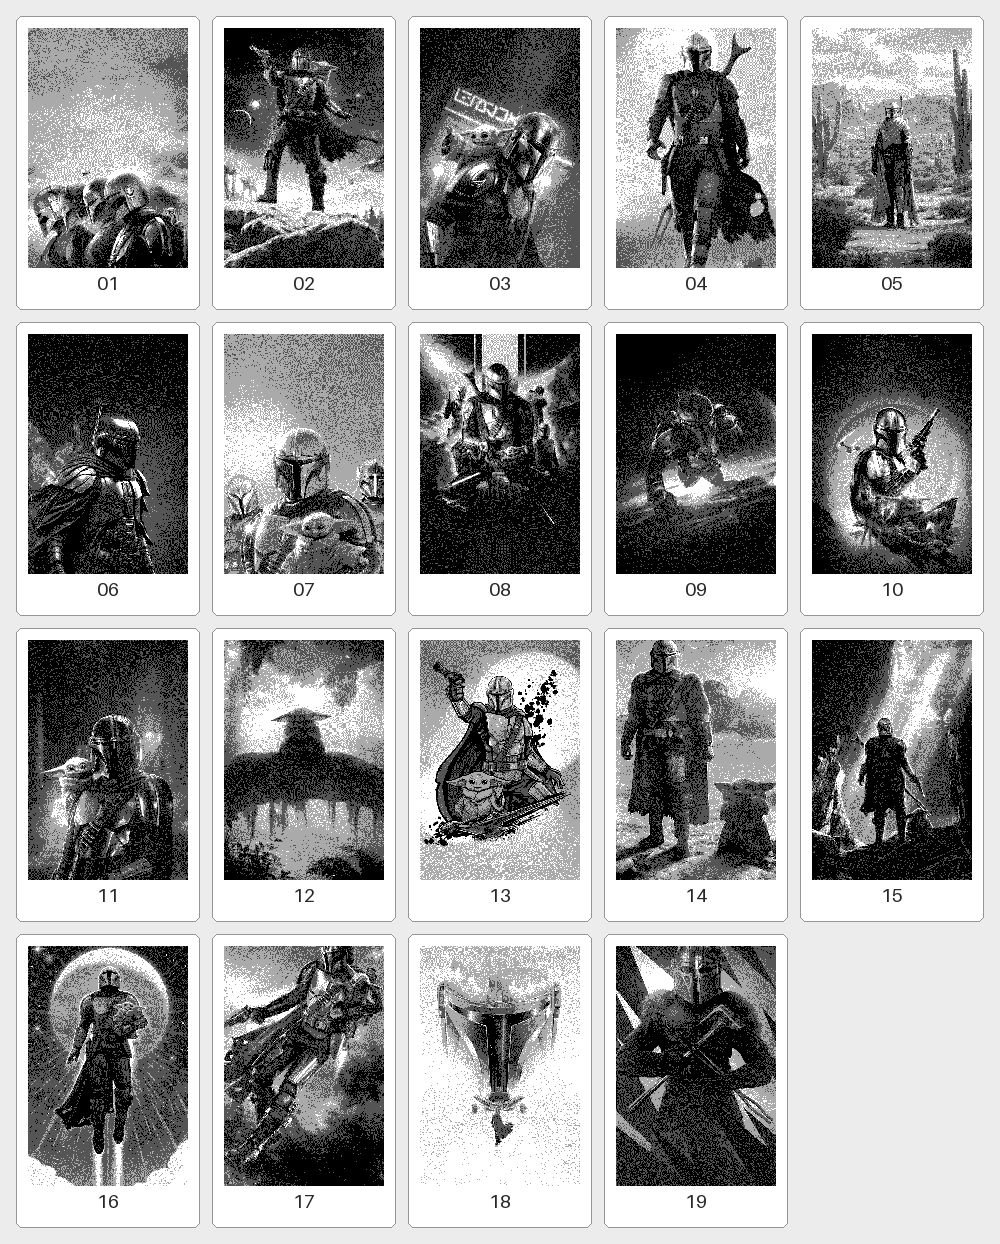
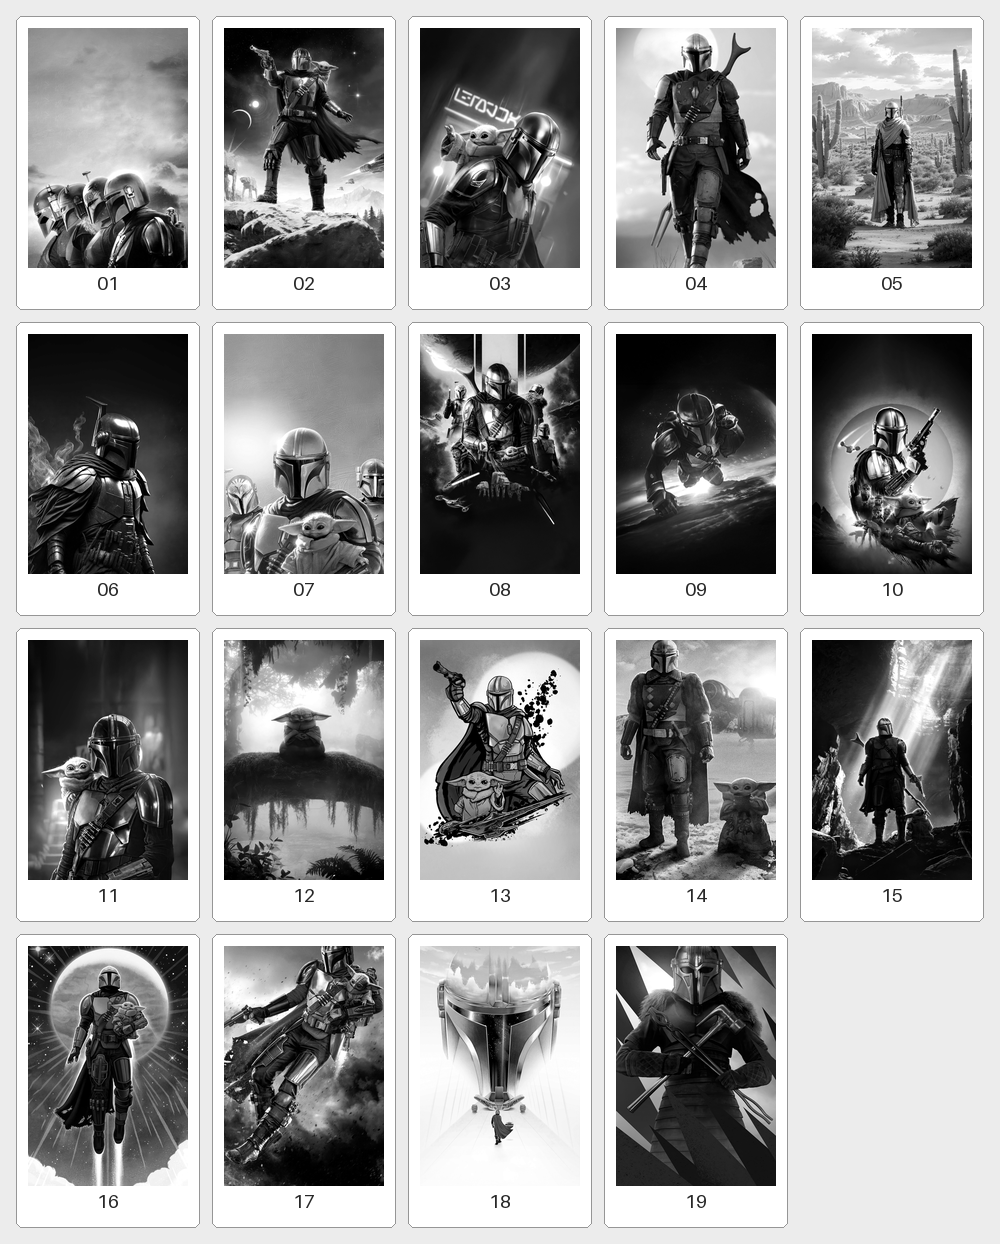
Improve Star Wars gallery quality using grayscale original artwork

diff --git a/tests/test_gallery_preview.py b/tests/test_gallery_preview.py
@@ -1,14 +1,14 @@
-"""Checks for the documentation-only Star Wars contact sheet."""
+"""Checks for the high-quality, source-artwork Star Wars contact sheet."""
 from __future__ import annotations
 
 import io
 import json
-import struct
+import shutil
 import tempfile
 import unittest
 from pathlib import Path
 
-from PIL import Image
+from PIL import Image, ImageDraw, ImageOps, UnidentifiedImageError
 from tools import generate_previews as preview
 
 ROOT = Path(__file__).resolve().parents[1]
@@ -21,13 +21,6 @@ class WallpaperPreviewTests(unittest.TestCase):
         self.assertEqual(len(paths), 19)
         self.assertTrue(all(path.is_file() for path in paths))
 
-    def test_native_2bpp_image_decodes_to_four_gray_levels(self):
-        image = preview.decode_2bpp_bmp(preview.images_from_manifest(PACK)[0])
-        self.assertEqual(image.size, (528, 792))
-        self.assertEqual(image.mode, "L")
-        self.assertTrue(set(image.getdata()).issubset({0, 85, 170, 255}))
-        self.assertGreater(len(set(image.getdata())), 1)
-
     def test_rejects_bad_manifest_image_lists(self):
         source = json.loads((PACK / "manifest.json").read_text(encoding="utf-8"))
         for images in (
@@ -36,40 +29,103 @@ class WallpaperPreviewTests(unittest.TestCase):
             source["images"][:-1] + ["../elsewhere.bmp"],
             source["images"][:-1] + [3],
         ):
-            with self.subTest(images=images[-1]):
+            with self.subTest(last=images[-1]):
                 with tempfile.TemporaryDirectory() as temp:
-                    path = Path(temp)
-                    (path / "manifest.json").write_text(
+                    pack = Path(temp)
+                    (pack / "manifest.json").write_text(
                         json.dumps({**source, "images": images}), encoding="utf-8"
                     )
                     with self.assertRaises(ValueError):
-                        preview.images_from_manifest(path)
+                        preview.images_from_manifest(pack)
 
-    def test_rejects_malformed_or_truncated_bmp(self):
-        data = (preview.images_from_manifest(PACK)[0]).read_bytes()
-        modified = []
-        modified.append(data[:-4])
-        broken_bitdepth = bytearray(data)
-        struct.pack_into("<H", broken_bitdepth, 28, 8)
-        modified.append(bytes(broken_bitdepth))
-        broken_palette = bytearray(data)
-        broken_palette[54] = 1
-        modified.append(bytes(broken_palette))
+    def make_fixture(self, parent: Path) -> tuple[Path, Path]:
+        """Create 19 distinct original JPEGs and one matching duplicate pair."""
+        pack = parent / "pack"
+        pack.mkdir()
+        source = parent / "originals"
+        source.mkdir()
+        names = ["wallpapers/art-00-1.bmp"]
+        names.extend(f"wallpapers/art-{i:02d}.bmp" for i in range(1, 19))
+        (pack / "manifest.json").write_text(
+            json.dumps({"images": names}), encoding="utf-8"
+        )
+        for i in range(19):
+            name = "art-00 (1).jpg" if i == 0 else f"art-{i:02d}.jpg"
+            image = Image.new("RGB", (96, 160))
+            draw = ImageDraw.Draw(image)
+            for x in range(96):
+                draw.line((x, 0, x, 159), fill=((x * 2 + i * 9) % 256,
+                                                  (x * 3 + i * 17) % 256, x))
+            image.save(source / name, quality=95)
+        shutil.copyfile(source / "art-00 (1).jpg", source / "art-00.jpg")
+        return pack, source
+
+    def test_matches_manifest_order_and_ignores_only_identical_duplicates(self):
         with tempfile.TemporaryDirectory() as temp:
-            path = Path(temp) / "test.bmp"
-            for bad_data in modified:
-                path.write_bytes(bad_data)
-                with self.assertRaises(ValueError):
-                    preview.decode_2bpp_bmp(path)
+            pack, source = self.make_fixture(Path(temp))
+            ordered = preview.source_files_for_manifest(pack, source)
+            self.assertEqual(len(ordered), 19)
+            self.assertEqual(ordered[0].name, "art-00 (1).jpg")
+            self.assertEqual(ordered[1].name, "art-01.jpg")
+            with Image.open(io.BytesIO(preview.render_gallery(pack, source))) as image:
+                self.assertEqual(image.format, "PNG")
+                self.assertEqual(image.size, (1000, 1244))
+                self.assertEqual(image.mode, "L")
+            Image.new("RGB", (96, 160), "red").save(source / "extra.jpg")
+            with self.assertRaisesRegex(ValueError, "extra distinct artwork"):
+                preview.source_files_for_manifest(pack, source)
 
-    def test_gallery_is_valid_png_and_current(self):
-        generated = preview.render_gallery(PACK)
-        self.assertEqual((ROOT / preview.PREVIEW).read_bytes(), generated)
-        with Image.open(io.BytesIO(generated)) as image:
+    def test_rejects_missing_duplicate_and_bad_originals(self):
+        with tempfile.TemporaryDirectory() as temp:
+            pack, source = self.make_fixture(Path(temp))
+            with self.assertRaisesRegex(ValueError, "missing"):
+                preview.source_files_for_manifest(pack, Path(temp) / "absent")
+            (source / "art-08.jpg").unlink()
+            with self.assertRaisesRegex(ValueError, "not found"):
+                preview.source_files_for_manifest(pack, source)
+            (source / "art-08.jpg").write_bytes((source / "art-09.jpg").read_bytes())
+            with self.assertRaisesRegex(ValueError, "distinct source artwork"):
+                preview.source_files_for_manifest(pack, source)
+            (source / "art-08.jpg").write_bytes(b"broken image")
+            with self.assertRaises(UnidentifiedImageError):
+                preview.render_gallery(pack, source)
+
+    def test_rejects_ambiguous_filename_normalization(self):
+        with tempfile.TemporaryDirectory() as temp:
+            pack, source = self.make_fixture(Path(temp))
+            shutil.copyfile(source / "art-02.jpg", source / "art 02.jpg")
+            shutil.copyfile(source / "art-02.jpg", source / "art+02.jpg")
+            with self.assertRaisesRegex(ValueError, "ambiguous"):
+                preview.source_files_for_manifest(pack, source)
+
+    def test_thumbnails_use_smooth_grayscale_and_x3_center_crop(self):
+        with tempfile.TemporaryDirectory() as temp:
+            source = Path(temp) / "landscape.jpg"
+            image = Image.new("RGB", (420, 200))
+            draw = ImageDraw.Draw(image)
+            for x in range(420):
+                draw.line((x, 0, x, 199), fill=(x * 255 // 419, 40, 255 - x * 255 // 419))
+            image.save(source, quality=98)
+            result = preview.grayscale_thumbnail(source)
+            self.assertEqual(result.size, (160, 240))
+            self.assertEqual(result.mode, "L")
+            self.assertGreater(len(set(result.tobytes())), 4)
+            # The X3 crop must differ from stretching the full landscape source.
+            with Image.open(source) as original:
+                stretched = ImageOps.autocontrast(
+                    ImageOps.grayscale(original), cutoff=1
+                ).resize(preview.THUMB_SIZE, Image.Resampling.LANCZOS)
+            self.assertNotEqual(result.tobytes(), stretched.tobytes())
+
+    def test_committed_gallery_has_256_level_preview_quality(self):
+        with Image.open(ROOT / preview.PREVIEW) as image:
+            image.verify()
+        with Image.open(ROOT / preview.PREVIEW) as image:
             self.assertEqual(image.format, "PNG")
             self.assertEqual(image.mode, "L")
             self.assertEqual(image.size, (1000, 1244))
-            # The unused 20th grid slot must stay empty.
+            self.assertGreater(len(set(image.crop((28, 28, 188, 268)).tobytes())), 4)
+            # The unused 20th grid slot remains blank.
             self.assertEqual(image.getpixel((824, 970)), 236)
 
 

diff --git a/tools/generate_previews.py b/tools/generate_previews.py
@@ -1,23 +1,27 @@
 #!/usr/bin/env python3
-"""Generate the single README contact sheet from the X3 pack's native 2bpp BMPs."""
+"""Build the README contact sheet from original artwork, not dithered device BMPs."""
 from __future__ import annotations
 
 import argparse
+import hashlib
 import io
 import json
 import re
-import struct
 from pathlib import Path
 
-from PIL import Image, ImageDraw, ImageFont
+from PIL import Image, ImageDraw, ImageFont, ImageOps
 
 PACK = "starwars-x3.crosspoint-wallpaper"
 PREVIEW = Path("docs/previews/starwars-gallery.png")
 IMAGE_NAME = re.compile(r"wallpapers/[a-zA-Z0-9_-][a-zA-Z0-9_.-]*\.bmp\Z")
+SOURCE_EXTENSIONS = {".jpg", ".jpeg", ".png", ".webp"}
 COUNT = 19
+TARGET_SIZE = (528, 792)
+THUMB_SIZE = (160, 240)
 
 
 def images_from_manifest(pack: Path) -> list[Path]:
+    """Return validated wallpaper paths in the exact device manifest order."""
     manifest = json.loads((pack / "manifest.json").read_text(encoding="utf-8"))
     images = manifest.get("images")
     if not isinstance(images, list) or len(images) != COUNT:
@@ -29,46 +33,61 @@ def images_from_manifest(pack: Path) -> list[Path]:
     return [pack / name for name in images]
 
 
-def decode_2bpp_bmp(path: Path) -> Image.Image:
-    """Decode the uncompressed, padded, bottom-up 2-bit BMP written by our converter.
+def source_filename_stem(path: Path) -> str:
+    """Match the naming convention used by convert_wallpaper_batch.py."""
+    return re.sub(r"[^a-z0-9_-]+", "-", path.stem.lower()).strip("-")
 
-    Pillow does not natively support the custom 2bpp BMP format.
-    """
-    data = path.read_bytes()
-    if len(data) < 70 or data[:2] != b"BM":
-        raise ValueError(f"invalid BMP header: {path}")
-    file_size = struct.unpack_from("<I", data, 2)[0]
-    offset = struct.unpack_from("<I", data, 10)[0]
-    dib_size, width, signed_height, planes, bpp, compression = struct.unpack_from(
-        "<IiiHHI", data, 14
+
+def source_files_for_manifest(pack: Path, source: Path) -> list[Path]:
+    """Match original images to manifest entries; allow only byte-identical extras."""
+    if not source.is_dir():
+        raise ValueError(f"original artwork folder is missing: {source}")
+    originals = sorted(
+        (path for path in source.iterdir()
+         if path.is_file() and not path.is_symlink()
+         and path.suffix.lower() in SOURCE_EXTENSIONS),
+        key=lambda path: path.name.lower(),
     )
-    if (file_size != len(data) or dib_size != 40 or not 0 < width <= 2048
-            or not 0 < signed_height <= 3072 or planes != 1 or bpp != 2
-            or compression != 0 or offset < 70):
-        raise ValueError(f"unsupported 2bpp BMP: {path}")
-    palette = []
-    for i in range(4):
-        b, g, r, _ = data[54 + 4 * i:58 + 4 * i]
-        if r != g or g != b:
-            raise ValueError(f"non-grayscale BMP palette: {path}")
-        palette.append(r)
-    stride = ((width * 2 + 31) // 32) * 4
-    if offset + stride * signed_height > len(data):
-        raise ValueError(f"truncated BMP pixel data: {path}")
+    by_stem: dict[str, Path] = {}
+    fingerprints: dict[Path, str] = {}
+    for path in originals:
+        stem = source_filename_stem(path)
+        if not stem or stem in by_stem:
+            raise ValueError(f"ambiguous original artwork filename: {path.name}")
+        by_stem[stem] = path
+        fingerprints[path] = hashlib.sha256(path.read_bytes()).hexdigest()
 
-    pixels = bytearray(width * signed_height)
-    for y in range(signed_height):
-        start = offset + (signed_height - 1 - y) * stride
-        row = data[start:start + stride]
-        dest = y * width
-        for x in range(width):
-            pixels[dest + x] = palette[(row[x // 4] >> (6 - (x % 4) * 2)) & 3]
-    return Image.frombytes("L", (width, signed_height), bytes(pixels))
+    chosen = []
+    for bmp in images_from_manifest(pack):
+        original = by_stem.get(bmp.stem)
+        if original is None:
+            raise ValueError(f"original artwork not found for: {bmp.name}")
+        chosen.append(original)
+
+    chosen_hashes = {fingerprints[path] for path in chosen}
+    if len(chosen_hashes) != COUNT:
+        raise ValueError("different manifest images must have distinct source artwork")
+    if set(fingerprints.values()) != chosen_hashes:
+        raise ValueError("source folder includes extra distinct artwork not in the pack")
+    return chosen
 
 
-def render_gallery(pack: Path) -> bytes:
-    paths = images_from_manifest(pack)
-    thumb_width, thumb_height = 160, 240
+def grayscale_thumbnail(source: Path) -> Image.Image:
+    """Use the device's X3 center crop, retaining 256 grayscale levels."""
+    with Image.open(source) as original:
+        cropped = ImageOps.fit(
+            ImageOps.exif_transpose(original).convert("RGB"),
+            TARGET_SIZE,
+            method=Image.Resampling.LANCZOS,
+            centering=(0.5, 0.5),
+        )
+    gray = ImageOps.autocontrast(ImageOps.grayscale(cropped), cutoff=1)
+    return gray.resize(THUMB_SIZE, Image.Resampling.LANCZOS)
+
+
+def render_gallery(pack: Path, source: Path) -> bytes:
+    paths = source_files_for_manifest(pack, source)
+    thumb_width, thumb_height = THUMB_SIZE
     columns, margin, gap, padding, label_height = 5, 16, 12, 12, 30
     cell_width = thumb_width + padding * 2
     cell_height = thumb_height + label_height + padding * 2
@@ -83,9 +102,7 @@ def render_gallery(pack: Path) -> bytes:
     font = ImageFont.load_default(size=19)
 
     for index, path in enumerate(paths):
-        image = decode_2bpp_bmp(path)
-        if image.size != (528, 792):
-            raise ValueError(f"unexpected X3 wallpaper dimensions: {path}")
+        image = grayscale_thumbnail(path)
         col, row = index % columns, index // columns
         x = margin + col * (cell_width + gap)
         y = margin + row * (cell_height + gap)
@@ -93,10 +110,7 @@ def render_gallery(pack: Path) -> bytes:
             (x, y, x + cell_width - 1, y + cell_height - 1),
             radius=6, fill=255, outline=150, width=1,
         )
-        canvas.paste(
-            image.resize((thumb_width, thumb_height), Image.Resampling.NEAREST),
-            (x + padding, y + padding),
-        )
+        canvas.paste(image, (x + padding, y + padding))
         draw.text(
             (x + cell_width // 2, y + padding + thumb_height + label_height // 2),
             f"{index + 1:02d}", fill=40, font=font, anchor="mm",
@@ -108,12 +122,16 @@ def render_gallery(pack: Path) -> bytes:
 
 def main() -> None:
     parser = argparse.ArgumentParser(description=__doc__)
+    parser.add_argument(
+        "--source", type=Path, required=True,
+        help="Folder with the unchanged original JPEG/PNG/WebP image batch",
+    )
     parser.add_argument("--root", type=Path, default=Path(__file__).resolve().parents[1])
     parser.add_argument("--output", type=Path, help="Override the PNG output path")
     parser.add_argument("--check", action="store_true", help="Fail if the gallery is out of date")
     args = parser.parse_args()
     output = args.output or args.root / PREVIEW
-    image = render_gallery(args.root / PACK)
+    image = render_gallery(args.root / PACK, args.source)
     if args.check:
         if not output.is_file() or output.read_bytes() != image:
             parser.error(f"gallery missing or out of date: {output}")
@@ -121,7 +139,7 @@ def main() -> None:
     else:
         output.parent.mkdir(parents=True, exist_ok=True)
         output.write_bytes(image)
-        print(f"Created {output} with {COUNT} wallpaper previews")
+        print(f"Created {output} with {COUNT} original-art grayscale previews")
 
 
 if __name__ == "__main__":

diff --git a/README.md b/README.md
@@ -11,13 +11,20 @@ The collections contain BMP images only; they are not plugins or UI themes.
 
 ## Wallpaper Gallery
 
-All 19 wallpaper designs are shown below using the X3 grayscale artwork. The
-X4+ pack includes the same designs, resized and cropped for its display.
+All 19 wallpaper designs are shown below using high-quality grayscale previews
+of the original artwork, center-cropped to match the X3 display. The X4+ pack
+contains the same designs, cropped and sized for its display. The previews
+retain smooth grayscale; installed wallpapers are separately dithered to native
+four-level grayscale BMPs.
 
 ![Preview gallery of all 19 Star Wars sleep wallpapers](docs/previews/starwars-gallery.png)
 
 The preview is documentation-only and is not part of either installable ZIP.
-Regenerate it after artwork changes with `python tools/generate_previews.py`.
+Regenerate it from the unchanged original artwork batch after any image changes:
+
+```powershell
+python tools/generate_previews.py --source "C:\\Users\\Admin\\Downloads\\starwars wallpaper 2"
+```
 
 ## Choose only one download
 
